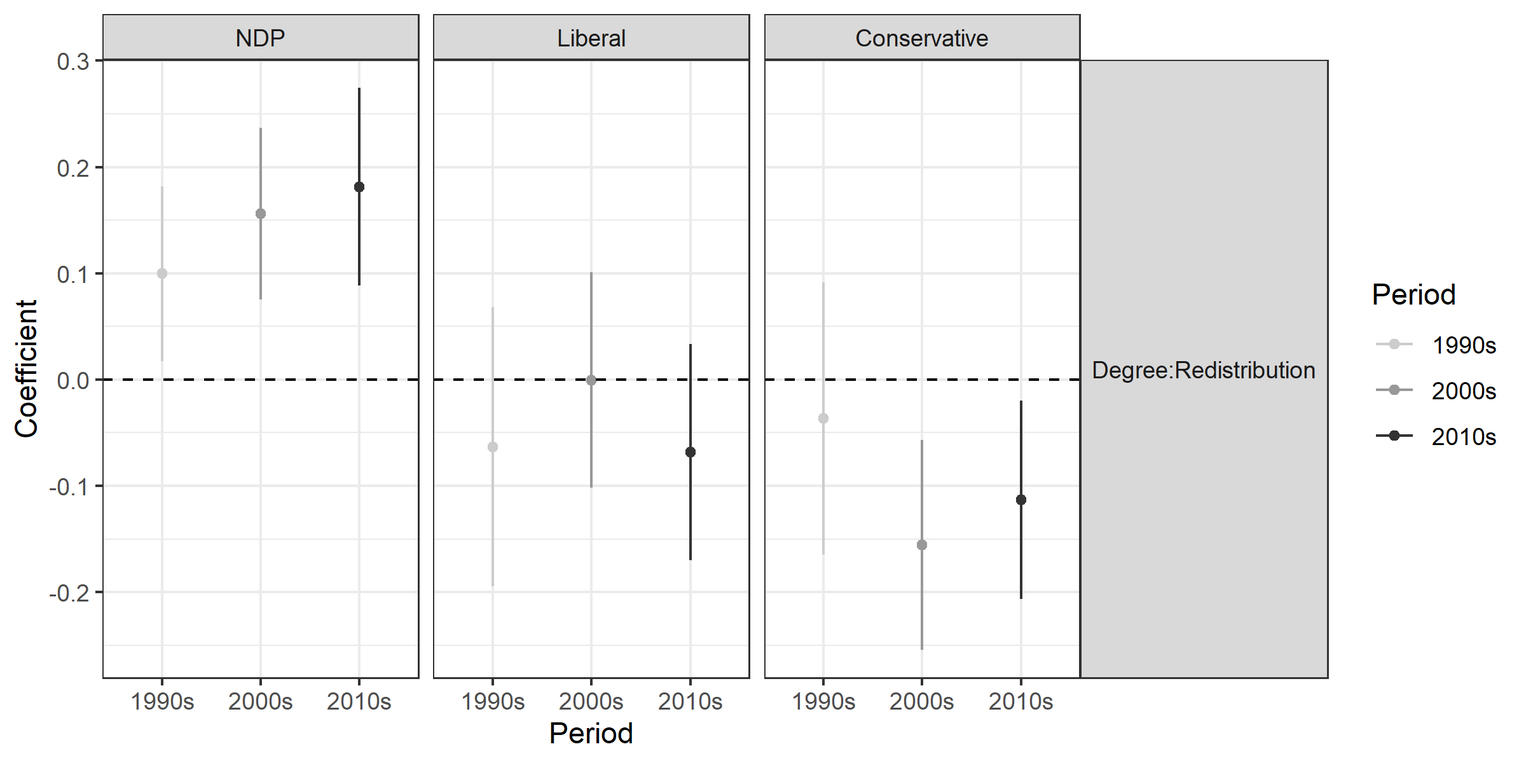
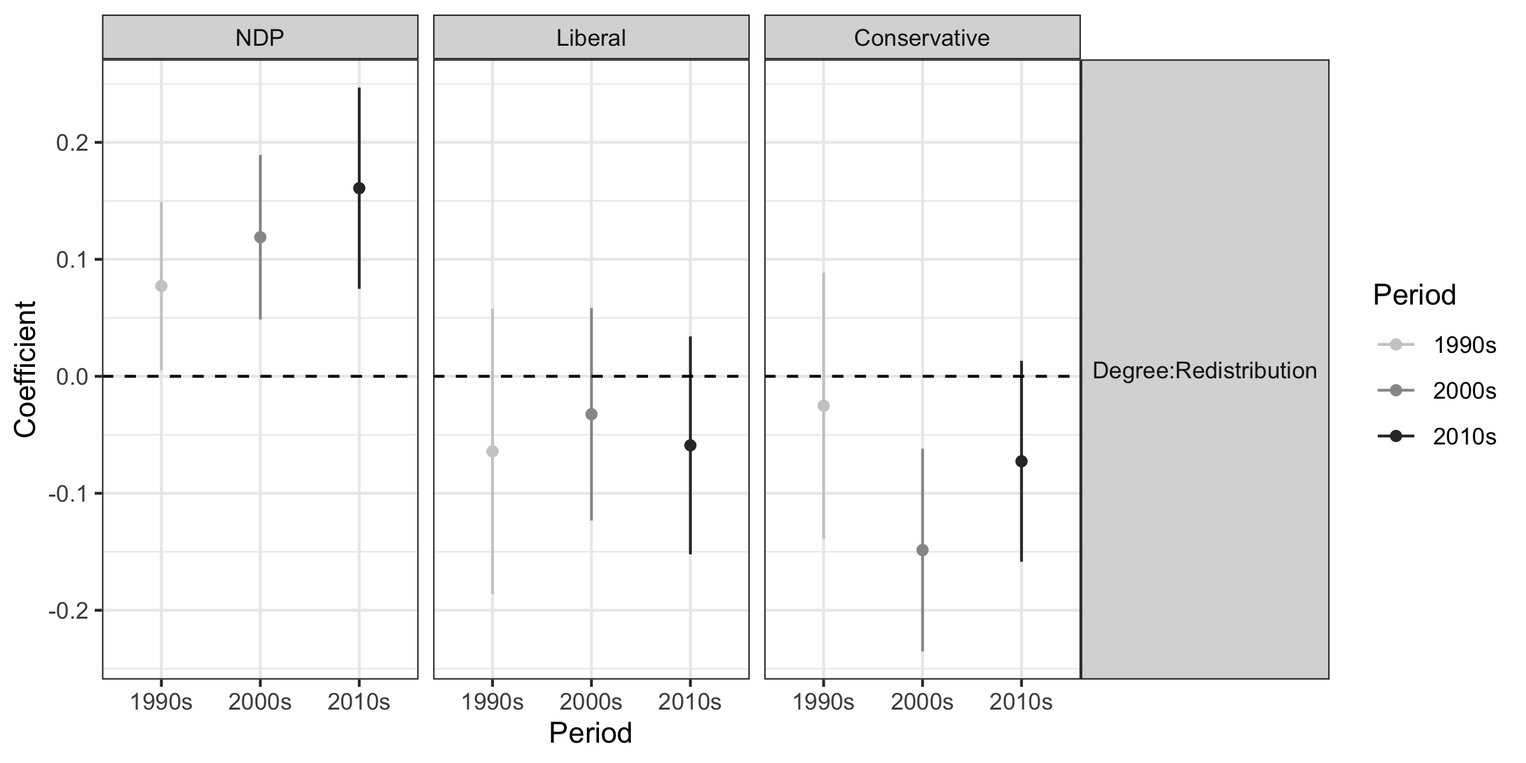
Upload the rest

diff --git a/Tables/test.html b/Tables/test.html
@@ -1,0 +1,87 @@
+
+<table style="text-align:center"><tr><td colspan="10" style="border-bottom: 1px solid black"></td></tr><tr><td style="text-align:left"></td><td colspan="9"><em>Dependent variable:</em></td></tr>
+<tr><td></td><td colspan="9" style="border-bottom: 1px solid black"></td></tr>
+<tr><td style="text-align:left"></td><td colspan="3">ndp</td><td colspan="3">liberal</td><td colspan="3">conservative</td></tr>
+<tr><td style="text-align:left"></td><td>(1)</td><td>(2)</td><td>(3)</td><td>(4)</td><td>(5)</td><td>(6)</td><td>(7)</td><td>(8)</td><td>(9)</td></tr>
+<tr><td colspan="10" style="border-bottom: 1px solid black"></td></tr><tr><td style="text-align:left">region2Atlantic</td><td>0.103<sup>***</sup></td><td>0.029</td><td>-0.186<sup>***</sup></td><td>-0.086<sup>**</sup></td><td>-0.055<sup>**</sup></td><td>0.119<sup>***</sup></td><td>-0.017</td><td>0.026</td><td>0.067<sup>***</sup></td></tr>
+<tr><td style="text-align:left"></td><td>(0.023)</td><td>(0.018)</td><td>(0.019)</td><td>(0.037)</td><td>(0.022)</td><td>(0.020)</td><td>(0.037)</td><td>(0.022)</td><td>(0.019)</td></tr>
+<tr><td style="text-align:left"></td><td></td><td></td><td></td><td></td><td></td><td></td><td></td><td></td><td></td></tr>
+<tr><td style="text-align:left">region2Ontario</td><td>0.057<sup>***</sup></td><td>0.028<sup>*</sup></td><td>-0.192<sup>***</sup></td><td>-0.039</td><td>-0.066<sup>***</sup></td><td>0.049<sup>***</sup></td><td>-0.018</td><td>0.039<sup>**</sup></td><td>0.143<sup>***</sup></td></tr>
+<tr><td style="text-align:left"></td><td>(0.020)</td><td>(0.015)</td><td>(0.017)</td><td>(0.032)</td><td>(0.019)</td><td>(0.018)</td><td>(0.031)</td><td>(0.018)</td><td>(0.017)</td></tr>
+<tr><td style="text-align:left"></td><td></td><td></td><td></td><td></td><td></td><td></td><td></td><td></td><td></td></tr>
+<tr><td style="text-align:left">region2West</td><td>0.105<sup>***</sup></td><td>0.096<sup>***</sup></td><td>-0.103<sup>***</sup></td><td>-0.249<sup>***</sup></td><td>-0.245<sup>***</sup></td><td>-0.124<sup>***</sup></td><td>0.144<sup>***</sup></td><td>0.149<sup>***</sup></td><td>0.227<sup>***</sup></td></tr>
+<tr><td style="text-align:left"></td><td>(0.019)</td><td>(0.015)</td><td>(0.017)</td><td>(0.031)</td><td>(0.019)</td><td>(0.018)</td><td>(0.030)</td><td>(0.019)</td><td>(0.017)</td></tr>
+<tr><td style="text-align:left"></td><td></td><td></td><td></td><td></td><td></td><td></td><td></td><td></td><td></td></tr>
+<tr><td style="text-align:left">age</td><td>0.001<sup>**</sup></td><td>-0.001<sup>***</sup></td><td>-0.002<sup>***</sup></td><td>0.001</td><td>0.003<sup>***</sup></td><td>0.003<sup>***</sup></td><td>-0.002<sup>***</sup></td><td>-0.002<sup>***</sup></td><td>-0.001<sup>*</sup></td></tr>
+<tr><td style="text-align:left"></td><td>(0.0004)</td><td>(0.0003)</td><td>(0.0004)</td><td>(0.001)</td><td>(0.0004)</td><td>(0.0004)</td><td>(0.001)</td><td>(0.0004)</td><td>(0.0004)</td></tr>
+<tr><td style="text-align:left"></td><td></td><td></td><td></td><td></td><td></td><td></td><td></td><td></td><td></td></tr>
+<tr><td style="text-align:left">male</td><td>-0.022<sup>*</sup></td><td>-0.007</td><td>0.016</td><td>-0.010</td><td>-0.021<sup>*</sup></td><td>-0.040<sup>***</sup></td><td>0.032</td><td>0.027<sup>**</sup></td><td>0.024<sup>**</sup></td></tr>
+<tr><td style="text-align:left"></td><td>(0.012)</td><td>(0.009)</td><td>(0.011)</td><td>(0.020)</td><td>(0.012)</td><td>(0.012)</td><td>(0.019)</td><td>(0.012)</td><td>(0.011)</td></tr>
+<tr><td style="text-align:left"></td><td></td><td></td><td></td><td></td><td></td><td></td><td></td><td></td><td></td></tr>
+<tr><td style="text-align:left">degree</td><td>-0.058<sup>*</sup></td><td>-0.123<sup>***</sup></td><td>-0.126<sup>***</sup></td><td>0.057</td><td>0.021</td><td>0.089<sup>**</sup></td><td>0.001</td><td>0.102<sup>**</sup></td><td>0.038</td></tr>
+<tr><td style="text-align:left"></td><td>(0.030)</td><td>(0.033)</td><td>(0.037)</td><td>(0.048)</td><td>(0.041)</td><td>(0.041)</td><td>(0.047)</td><td>(0.040)</td><td>(0.038)</td></tr>
+<tr><td style="text-align:left"></td><td></td><td></td><td></td><td></td><td></td><td></td><td></td><td></td><td></td></tr>
+<tr><td style="text-align:left">income</td><td>-0.006</td><td>-0.022<sup>***</sup></td><td>-0.027<sup>***</sup></td><td>-0.003</td><td>0.002</td><td>0.008<sup>*</sup></td><td>0.009</td><td>0.020<sup>***</sup></td><td>0.019<sup>***</sup></td></tr>
+<tr><td style="text-align:left"></td><td>(0.005)</td><td>(0.004)</td><td>(0.004)</td><td>(0.008)</td><td>(0.005)</td><td>(0.005)</td><td>(0.008)</td><td>(0.005)</td><td>(0.004)</td></tr>
+<tr><td style="text-align:left"></td><td></td><td></td><td></td><td></td><td></td><td></td><td></td><td></td><td></td></tr>
+<tr><td style="text-align:left">religion2Catholic</td><td>-0.041<sup>**</sup></td><td>-0.101<sup>***</sup></td><td>-0.066<sup>***</sup></td><td>0.092<sup>***</sup></td><td>0.078<sup>***</sup></td><td>0.013</td><td>-0.050</td><td>0.023</td><td>0.053<sup>***</sup></td></tr>
+<tr><td style="text-align:left"></td><td>(0.020)</td><td>(0.014)</td><td>(0.015)</td><td>(0.032)</td><td>(0.018)</td><td>(0.016)</td><td>(0.031)</td><td>(0.017)</td><td>(0.015)</td></tr>
+<tr><td style="text-align:left"></td><td></td><td></td><td></td><td></td><td></td><td></td><td></td><td></td><td></td></tr>
+<tr><td style="text-align:left">religion2Protestant</td><td>-0.029</td><td>-0.099<sup>***</sup></td><td>-0.070<sup>***</sup></td><td>-0.027</td><td>-0.046<sup>***</sup></td><td>-0.035<sup>**</sup></td><td>0.056<sup>*</sup></td><td>0.145<sup>***</sup></td><td>0.105<sup>***</sup></td></tr>
+<tr><td style="text-align:left"></td><td>(0.019)</td><td>(0.013)</td><td>(0.014)</td><td>(0.030)</td><td>(0.017)</td><td>(0.016)</td><td>(0.030)</td><td>(0.016)</td><td>(0.015)</td></tr>
+<tr><td style="text-align:left"></td><td></td><td></td><td></td><td></td><td></td><td></td><td></td><td></td><td></td></tr>
+<tr><td style="text-align:left">religion2Other</td><td>-0.001</td><td>-0.100<sup>***</sup></td><td>-0.063<sup>**</sup></td><td>0.040</td><td>0.138<sup>***</sup></td><td>0.054<sup>**</sup></td><td>-0.039</td><td>-0.038</td><td>0.009</td></tr>
+<tr><td style="text-align:left"></td><td>(0.031)</td><td>(0.023)</td><td>(0.025)</td><td>(0.049)</td><td>(0.029)</td><td>(0.027)</td><td>(0.048)</td><td>(0.028)</td><td>(0.025)</td></tr>
+<tr><td style="text-align:left"></td><td></td><td></td><td></td><td></td><td></td><td></td><td></td><td></td><td></td></tr>
+<tr><td style="text-align:left">redistribution</td><td>0.079<sup>***</sup></td><td>0.143<sup>***</sup></td><td>0.208<sup>***</sup></td><td>0.113<sup>***</sup></td><td>0.021</td><td>0.140<sup>***</sup></td><td>-0.191<sup>***</sup></td><td>-0.164<sup>***</sup></td><td>-0.349<sup>***</sup></td></tr>
+<tr><td style="text-align:left"></td><td>(0.023)</td><td>(0.025)</td><td>(0.031)</td><td>(0.036)</td><td>(0.031)</td><td>(0.034)</td><td>(0.035)</td><td>(0.030)</td><td>(0.031)</td></tr>
+<tr><td style="text-align:left"></td><td></td><td></td><td></td><td></td><td></td><td></td><td></td><td></td><td></td></tr>
+<tr><td style="text-align:left">market_liberalism</td><td>-0.171<sup>***</sup></td><td>-0.223<sup>***</sup></td><td>-0.254<sup>***</sup></td><td>-0.155<sup>***</sup></td><td>-0.063<sup>***</sup></td><td>-0.056<sup>**</sup></td><td>0.326<sup>***</sup></td><td>0.286<sup>***</sup></td><td>0.311<sup>***</sup></td></tr>
+<tr><td style="text-align:left"></td><td>(0.024)</td><td>(0.018)</td><td>(0.022)</td><td>(0.039)</td><td>(0.023)</td><td>(0.024)</td><td>(0.038)</td><td>(0.022)</td><td>(0.022)</td></tr>
+<tr><td style="text-align:left"></td><td></td><td></td><td></td><td></td><td></td><td></td><td></td><td></td><td></td></tr>
+<tr><td style="text-align:left">traditionalism2</td><td>-0.109<sup>***</sup></td><td>-0.191<sup>***</sup></td><td>-0.146<sup>***</sup></td><td>-0.018</td><td>-0.119<sup>***</sup></td><td>-0.171<sup>***</sup></td><td>0.126<sup>***</sup></td><td>0.310<sup>***</sup></td><td>0.317<sup>***</sup></td></tr>
+<tr><td style="text-align:left"></td><td>(0.022)</td><td>(0.016)</td><td>(0.022)</td><td>(0.034)</td><td>(0.019)</td><td>(0.024)</td><td>(0.034)</td><td>(0.019)</td><td>(0.023)</td></tr>
+<tr><td style="text-align:left"></td><td></td><td></td><td></td><td></td><td></td><td></td><td></td><td></td><td></td></tr>
+<tr><td style="text-align:left">immigration_rates</td><td>-0.030<sup>*</sup></td><td>-0.037<sup>**</sup></td><td>-0.024</td><td>-0.066<sup>**</sup></td><td>-0.053<sup>***</sup></td><td>-0.151<sup>***</sup></td><td>0.096<sup>***</sup></td><td>0.090<sup>***</sup></td><td>0.175<sup>***</sup></td></tr>
+<tr><td style="text-align:left"></td><td>(0.017)</td><td>(0.015)</td><td>(0.017)</td><td>(0.027)</td><td>(0.019)</td><td>(0.019)</td><td>(0.027)</td><td>(0.018)</td><td>(0.018)</td></tr>
+<tr><td style="text-align:left"></td><td></td><td></td><td></td><td></td><td></td><td></td><td></td><td></td><td></td></tr>
+<tr><td style="text-align:left">`1993`</td><td>-0.056<sup>***</sup></td><td></td><td></td><td>0.106<sup>***</sup></td><td></td><td></td><td>-0.051<sup>***</sup></td><td></td><td></td></tr>
+<tr><td style="text-align:left"></td><td>(0.012)</td><td></td><td></td><td>(0.020)</td><td></td><td></td><td>(0.019)</td><td></td><td></td></tr>
+<tr><td style="text-align:left"></td><td></td><td></td><td></td><td></td><td></td><td></td><td></td><td></td><td></td></tr>
+<tr><td style="text-align:left">`1997`</td><td></td><td></td><td></td><td></td><td></td><td></td><td></td><td></td><td></td></tr>
+<tr><td style="text-align:left"></td><td></td><td></td><td></td><td></td><td></td><td></td><td></td><td></td><td></td></tr>
+<tr><td style="text-align:left"></td><td></td><td></td><td></td><td></td><td></td><td></td><td></td><td></td><td></td></tr>
+<tr><td style="text-align:left">`2000`</td><td></td><td>-0.098<sup>***</sup></td><td></td><td></td><td>0.171<sup>***</sup></td><td></td><td></td><td>-0.073<sup>***</sup></td><td></td></tr>
+<tr><td style="text-align:left"></td><td></td><td>(0.014)</td><td></td><td></td><td>(0.018)</td><td></td><td></td><td>(0.018)</td><td></td></tr>
+<tr><td style="text-align:left"></td><td></td><td></td><td></td><td></td><td></td><td></td><td></td><td></td><td></td></tr>
+<tr><td style="text-align:left">`2004`</td><td></td><td>-0.031<sup>**</sup></td><td></td><td></td><td>0.128<sup>***</sup></td><td></td><td></td><td>-0.097<sup>***</sup></td><td></td></tr>
+<tr><td style="text-align:left"></td><td></td><td>(0.014)</td><td></td><td></td><td>(0.017)</td><td></td><td></td><td>(0.017)</td><td></td></tr>
+<tr><td style="text-align:left"></td><td></td><td></td><td></td><td></td><td></td><td></td><td></td><td></td><td></td></tr>
+<tr><td style="text-align:left">`2006`</td><td></td><td>-0.028<sup>**</sup></td><td></td><td></td><td>0.019</td><td></td><td></td><td>0.010</td><td></td></tr>
+<tr><td style="text-align:left"></td><td></td><td>(0.013)</td><td></td><td></td><td>(0.016)</td><td></td><td></td><td>(0.016)</td><td></td></tr>
+<tr><td style="text-align:left"></td><td></td><td></td><td></td><td></td><td></td><td></td><td></td><td></td><td></td></tr>
+<tr><td style="text-align:left">`2008`</td><td></td><td></td><td></td><td></td><td></td><td></td><td></td><td></td><td></td></tr>
+<tr><td style="text-align:left"></td><td></td><td></td><td></td><td></td><td></td><td></td><td></td><td></td><td></td></tr>
+<tr><td style="text-align:left"></td><td></td><td></td><td></td><td></td><td></td><td></td><td></td><td></td><td></td></tr>
+<tr><td style="text-align:left">`2011`</td><td></td><td></td><td>0.172<sup>***</sup></td><td></td><td></td><td>-0.156<sup>***</sup></td><td></td><td></td><td>-0.016</td></tr>
+<tr><td style="text-align:left"></td><td></td><td></td><td>(0.013)</td><td></td><td></td><td>(0.015)</td><td></td><td></td><td>(0.014)</td></tr>
+<tr><td style="text-align:left"></td><td></td><td></td><td></td><td></td><td></td><td></td><td></td><td></td><td></td></tr>
+<tr><td style="text-align:left">`2015`</td><td></td><td></td><td>0.041<sup>***</sup></td><td></td><td></td><td>0.042<sup>***</sup></td><td></td><td></td><td>-0.084<sup>***</sup></td></tr>
+<tr><td style="text-align:left"></td><td></td><td></td><td>(0.014)</td><td></td><td></td><td>(0.015)</td><td></td><td></td><td>(0.014)</td></tr>
+<tr><td style="text-align:left"></td><td></td><td></td><td></td><td></td><td></td><td></td><td></td><td></td><td></td></tr>
+<tr><td style="text-align:left">`2019`</td><td></td><td></td><td></td><td></td><td></td><td></td><td></td><td></td><td></td></tr>
+<tr><td style="text-align:left"></td><td></td><td></td><td></td><td></td><td></td><td></td><td></td><td></td><td></td></tr>
+<tr><td style="text-align:left"></td><td></td><td></td><td></td><td></td><td></td><td></td><td></td><td></td><td></td></tr>
+<tr><td style="text-align:left">degree:redistribution</td><td>0.097<sup>**</sup></td><td>0.151<sup>***</sup></td><td>0.174<sup>***</sup></td><td>-0.058</td><td>0.006</td><td>-0.059</td><td>-0.039</td><td>-0.157<sup>***</sup></td><td>-0.115<sup>**</sup></td></tr>
+<tr><td style="text-align:left"></td><td>(0.042)</td><td>(0.041)</td><td>(0.047)</td><td>(0.067)</td><td>(0.051)</td><td>(0.051)</td><td>(0.065)</td><td>(0.050)</td><td>(0.047)</td></tr>
+<tr><td style="text-align:left"></td><td></td><td></td><td></td><td></td><td></td><td></td><td></td><td></td><td></td></tr>
+<tr><td style="text-align:left">Constant</td><td>0.190<sup>***</sup></td><td>0.498<sup>***</sup></td><td>0.577<sup>***</sup></td><td>0.529<sup>***</sup></td><td>0.365<sup>***</sup></td><td>0.275<sup>***</sup></td><td>0.281<sup>***</sup></td><td>0.138<sup>***</sup></td><td>0.148<sup>***</sup></td></tr>
+<tr><td style="text-align:left"></td><td>(0.043)</td><td>(0.037)</td><td>(0.042)</td><td>(0.068)</td><td>(0.047)</td><td>(0.046)</td><td>(0.067)</td><td>(0.046)</td><td>(0.043)</td></tr>
+<tr><td style="text-align:left"></td><td></td><td></td><td></td><td></td><td></td><td></td><td></td><td></td><td></td></tr>
+<tr><td colspan="10" style="border-bottom: 1px solid black"></td></tr><tr><td style="text-align:left">Observations</td><td>2,500</td><td>6,502</td><td>5,972</td><td>2,500</td><td>6,502</td><td>5,972</td><td>2,500</td><td>6,502</td><td>5,972</td></tr>
+<tr><td style="text-align:left">R<sup>2</sup></td><td>0.093</td><td>0.138</td><td>0.160</td><td>0.101</td><td>0.103</td><td>0.142</td><td>0.134</td><td>0.170</td><td>0.278</td></tr>
+<tr><td style="text-align:left">Adjusted R<sup>2</sup></td><td>0.087</td><td>0.136</td><td>0.158</td><td>0.095</td><td>0.100</td><td>0.139</td><td>0.128</td><td>0.168</td><td>0.276</td></tr>
+<tr><td style="text-align:left">Residual Std. Error</td><td>0.298 (df = 2483)</td><td>0.369 (df = 6483)</td><td>0.407 (df = 5954)</td><td>0.473 (df = 2483)</td><td>0.460 (df = 6483)</td><td>0.444 (df = 5954)</td><td>0.464 (df = 2483)</td><td>0.451 (df = 6483)</td><td>0.412 (df = 5954)</td></tr>
+<tr><td style="text-align:left">F Statistic</td><td>15.917<sup>***</sup> (df = 16; 2483)</td><td>57.704<sup>***</sup> (df = 18; 6483)</td><td>66.701<sup>***</sup> (df = 17; 5954)</td><td>17.401<sup>***</sup> (df = 16; 2483)</td><td>41.297<sup>***</sup> (df = 18; 6483)</td><td>57.869<sup>***</sup> (df = 17; 5954)</td><td>23.932<sup>***</sup> (df = 16; 2483)</td><td>73.876<sup>***</sup> (df = 18; 6483)</td><td>134.692<sup>***</sup> (df = 17; 5954)</td></tr>
+<tr><td colspan="10" style="border-bottom: 1px solid black"></td></tr><tr><td style="text-align:left"><em>Note:</em></td><td colspan="9" style="text-align:right"><sup>*</sup>p<0.1; <sup>**</sup>p<0.05; <sup>***</sup>p<0.01</td></tr>
+</table>

diff --git a/Tables/interaction_models.html b/Tables/interaction_models.html
@@ -1,0 +1,60 @@
+
+<table style="text-align:center"><tr><td colspan="10" style="border-bottom: 1px solid black"></td></tr><tr><td style="text-align:left"></td><td colspan="9"><em>Dependent variable:</em></td></tr>
+<tr><td></td><td colspan="9" style="border-bottom: 1px solid black"></td></tr>
+<tr><td style="text-align:left"></td><td colspan="3">ndp</td><td colspan="3">liberal</td><td colspan="3">conservative</td></tr>
+<tr><td style="text-align:left"></td><td>(1)</td><td>(2)</td><td>(3)</td><td>(4)</td><td>(5)</td><td>(6)</td><td>(7)</td><td>(8)</td><td>(9)</td></tr>
+<tr><td colspan="10" style="border-bottom: 1px solid black"></td></tr><tr><td style="text-align:left">Region (Atlantic)</td><td>0.103<sup>***</sup></td><td>0.029</td><td>-0.186<sup>***</sup></td><td>-0.086<sup>**</sup></td><td>-0.055<sup>**</sup></td><td>0.119<sup>***</sup></td><td>-0.017</td><td>0.026</td><td>0.067<sup>***</sup></td></tr>
+<tr><td style="text-align:left"></td><td>(0.023)</td><td>(0.018)</td><td>(0.019)</td><td>(0.037)</td><td>(0.022)</td><td>(0.020)</td><td>(0.037)</td><td>(0.022)</td><td>(0.019)</td></tr>
+<tr><td style="text-align:left"></td><td></td><td></td><td></td><td></td><td></td><td></td><td></td><td></td><td></td></tr>
+<tr><td style="text-align:left">Region (Ontario)</td><td>0.057<sup>***</sup></td><td>0.028<sup>*</sup></td><td>-0.192<sup>***</sup></td><td>-0.039</td><td>-0.066<sup>***</sup></td><td>0.049<sup>***</sup></td><td>-0.018</td><td>0.039<sup>**</sup></td><td>0.143<sup>***</sup></td></tr>
+<tr><td style="text-align:left"></td><td>(0.020)</td><td>(0.015)</td><td>(0.017)</td><td>(0.032)</td><td>(0.019)</td><td>(0.018)</td><td>(0.031)</td><td>(0.018)</td><td>(0.017)</td></tr>
+<tr><td style="text-align:left"></td><td></td><td></td><td></td><td></td><td></td><td></td><td></td><td></td><td></td></tr>
+<tr><td style="text-align:left">Region (West)</td><td>0.105<sup>***</sup></td><td>0.096<sup>***</sup></td><td>-0.103<sup>***</sup></td><td>-0.249<sup>***</sup></td><td>-0.245<sup>***</sup></td><td>-0.124<sup>***</sup></td><td>0.144<sup>***</sup></td><td>0.149<sup>***</sup></td><td>0.227<sup>***</sup></td></tr>
+<tr><td style="text-align:left"></td><td>(0.019)</td><td>(0.015)</td><td>(0.017)</td><td>(0.031)</td><td>(0.019)</td><td>(0.018)</td><td>(0.030)</td><td>(0.019)</td><td>(0.017)</td></tr>
+<tr><td style="text-align:left"></td><td></td><td></td><td></td><td></td><td></td><td></td><td></td><td></td><td></td></tr>
+<tr><td style="text-align:left">Age</td><td>0.001<sup>**</sup></td><td>-0.001<sup>***</sup></td><td>-0.002<sup>***</sup></td><td>0.001</td><td>0.003<sup>***</sup></td><td>0.003<sup>***</sup></td><td>-0.002<sup>***</sup></td><td>-0.002<sup>***</sup></td><td>-0.001<sup>*</sup></td></tr>
+<tr><td style="text-align:left"></td><td>(0.0004)</td><td>(0.0003)</td><td>(0.0004)</td><td>(0.001)</td><td>(0.0004)</td><td>(0.0004)</td><td>(0.001)</td><td>(0.0004)</td><td>(0.0004)</td></tr>
+<tr><td style="text-align:left"></td><td></td><td></td><td></td><td></td><td></td><td></td><td></td><td></td><td></td></tr>
+<tr><td style="text-align:left">Sex (Male)</td><td>-0.022<sup>*</sup></td><td>-0.007</td><td>0.016</td><td>-0.010</td><td>-0.021<sup>*</sup></td><td>-0.040<sup>***</sup></td><td>0.032</td><td>0.027<sup>**</sup></td><td>0.024<sup>**</sup></td></tr>
+<tr><td style="text-align:left"></td><td>(0.012)</td><td>(0.009)</td><td>(0.011)</td><td>(0.020)</td><td>(0.012)</td><td>(0.012)</td><td>(0.019)</td><td>(0.012)</td><td>(0.011)</td></tr>
+<tr><td style="text-align:left"></td><td></td><td></td><td></td><td></td><td></td><td></td><td></td><td></td><td></td></tr>
+<tr><td style="text-align:left">Education (Degree)</td><td>-0.058<sup>*</sup></td><td>-0.123<sup>***</sup></td><td>-0.126<sup>***</sup></td><td>0.057</td><td>0.021</td><td>0.089<sup>**</sup></td><td>0.001</td><td>0.102<sup>**</sup></td><td>0.038</td></tr>
+<tr><td style="text-align:left"></td><td>(0.030)</td><td>(0.033)</td><td>(0.037)</td><td>(0.048)</td><td>(0.041)</td><td>(0.041)</td><td>(0.047)</td><td>(0.040)</td><td>(0.038)</td></tr>
+<tr><td style="text-align:left"></td><td></td><td></td><td></td><td></td><td></td><td></td><td></td><td></td><td></td></tr>
+<tr><td style="text-align:left">Income (Quintiles)</td><td>-0.006</td><td>-0.022<sup>***</sup></td><td>-0.027<sup>***</sup></td><td>-0.003</td><td>0.002</td><td>0.008<sup>*</sup></td><td>0.009</td><td>0.020<sup>***</sup></td><td>0.019<sup>***</sup></td></tr>
+<tr><td style="text-align:left"></td><td>(0.005)</td><td>(0.004)</td><td>(0.004)</td><td>(0.008)</td><td>(0.005)</td><td>(0.005)</td><td>(0.008)</td><td>(0.005)</td><td>(0.004)</td></tr>
+<tr><td style="text-align:left"></td><td></td><td></td><td></td><td></td><td></td><td></td><td></td><td></td><td></td></tr>
+<tr><td style="text-align:left">Religion (Catholic)</td><td>-0.041<sup>**</sup></td><td>-0.101<sup>***</sup></td><td>-0.066<sup>***</sup></td><td>0.092<sup>***</sup></td><td>0.078<sup>***</sup></td><td>0.013</td><td>-0.050</td><td>0.023</td><td>0.053<sup>***</sup></td></tr>
+<tr><td style="text-align:left"></td><td>(0.020)</td><td>(0.014)</td><td>(0.015)</td><td>(0.032)</td><td>(0.018)</td><td>(0.016)</td><td>(0.031)</td><td>(0.017)</td><td>(0.015)</td></tr>
+<tr><td style="text-align:left"></td><td></td><td></td><td></td><td></td><td></td><td></td><td></td><td></td><td></td></tr>
+<tr><td style="text-align:left">Religion (Protestant)</td><td>-0.029</td><td>-0.099<sup>***</sup></td><td>-0.070<sup>***</sup></td><td>-0.027</td><td>-0.046<sup>***</sup></td><td>-0.035<sup>**</sup></td><td>0.056<sup>*</sup></td><td>0.145<sup>***</sup></td><td>0.105<sup>***</sup></td></tr>
+<tr><td style="text-align:left"></td><td>(0.019)</td><td>(0.013)</td><td>(0.014)</td><td>(0.030)</td><td>(0.017)</td><td>(0.016)</td><td>(0.030)</td><td>(0.016)</td><td>(0.015)</td></tr>
+<tr><td style="text-align:left"></td><td></td><td></td><td></td><td></td><td></td><td></td><td></td><td></td><td></td></tr>
+<tr><td style="text-align:left">Religion (Other)</td><td>-0.001</td><td>-0.100<sup>***</sup></td><td>-0.063<sup>**</sup></td><td>0.040</td><td>0.138<sup>***</sup></td><td>0.054<sup>**</sup></td><td>-0.039</td><td>-0.038</td><td>0.009</td></tr>
+<tr><td style="text-align:left"></td><td>(0.031)</td><td>(0.023)</td><td>(0.025)</td><td>(0.049)</td><td>(0.029)</td><td>(0.027)</td><td>(0.048)</td><td>(0.028)</td><td>(0.025)</td></tr>
+<tr><td style="text-align:left"></td><td></td><td></td><td></td><td></td><td></td><td></td><td></td><td></td><td></td></tr>
+<tr><td style="text-align:left">Redistribution</td><td>0.079<sup>***</sup></td><td>0.143<sup>***</sup></td><td>0.208<sup>***</sup></td><td>0.113<sup>***</sup></td><td>0.021</td><td>0.140<sup>***</sup></td><td>-0.191<sup>***</sup></td><td>-0.164<sup>***</sup></td><td>-0.349<sup>***</sup></td></tr>
+<tr><td style="text-align:left"></td><td>(0.023)</td><td>(0.025)</td><td>(0.031)</td><td>(0.036)</td><td>(0.031)</td><td>(0.034)</td><td>(0.035)</td><td>(0.030)</td><td>(0.031)</td></tr>
+<tr><td style="text-align:left"></td><td></td><td></td><td></td><td></td><td></td><td></td><td></td><td></td><td></td></tr>
+<tr><td style="text-align:left">Market Liberalism</td><td>-0.171<sup>***</sup></td><td>-0.223<sup>***</sup></td><td>-0.254<sup>***</sup></td><td>-0.155<sup>***</sup></td><td>-0.063<sup>***</sup></td><td>-0.056<sup>**</sup></td><td>0.326<sup>***</sup></td><td>0.286<sup>***</sup></td><td>0.311<sup>***</sup></td></tr>
+<tr><td style="text-align:left"></td><td>(0.024)</td><td>(0.018)</td><td>(0.022)</td><td>(0.039)</td><td>(0.023)</td><td>(0.024)</td><td>(0.038)</td><td>(0.022)</td><td>(0.022)</td></tr>
+<tr><td style="text-align:left"></td><td></td><td></td><td></td><td></td><td></td><td></td><td></td><td></td><td></td></tr>
+<tr><td style="text-align:left">Traditionalism</td><td>-0.109<sup>***</sup></td><td>-0.191<sup>***</sup></td><td>-0.146<sup>***</sup></td><td>-0.018</td><td>-0.119<sup>***</sup></td><td>-0.171<sup>***</sup></td><td>0.126<sup>***</sup></td><td>0.310<sup>***</sup></td><td>0.317<sup>***</sup></td></tr>
+<tr><td style="text-align:left"></td><td>(0.022)</td><td>(0.016)</td><td>(0.022)</td><td>(0.034)</td><td>(0.019)</td><td>(0.024)</td><td>(0.034)</td><td>(0.019)</td><td>(0.023)</td></tr>
+<tr><td style="text-align:left"></td><td></td><td></td><td></td><td></td><td></td><td></td><td></td><td></td><td></td></tr>
+<tr><td style="text-align:left">Immigration Rates</td><td>-0.030<sup>*</sup></td><td>-0.037<sup>**</sup></td><td>-0.024</td><td>-0.066<sup>**</sup></td><td>-0.053<sup>***</sup></td><td>-0.151<sup>***</sup></td><td>0.096<sup>***</sup></td><td>0.090<sup>***</sup></td><td>0.175<sup>***</sup></td></tr>
+<tr><td style="text-align:left"></td><td>(0.017)</td><td>(0.015)</td><td>(0.017)</td><td>(0.027)</td><td>(0.019)</td><td>(0.019)</td><td>(0.027)</td><td>(0.018)</td><td>(0.018)</td></tr>
+<tr><td style="text-align:left"></td><td></td><td></td><td></td><td></td><td></td><td></td><td></td><td></td><td></td></tr>
+<tr><td style="text-align:left">degree:redistribution</td><td>0.097<sup>**</sup></td><td>0.151<sup>***</sup></td><td>0.174<sup>***</sup></td><td>-0.058</td><td>0.006</td><td>-0.059</td><td>-0.039</td><td>-0.157<sup>***</sup></td><td>-0.115<sup>**</sup></td></tr>
+<tr><td style="text-align:left"></td><td>(0.042)</td><td>(0.041)</td><td>(0.047)</td><td>(0.067)</td><td>(0.051)</td><td>(0.051)</td><td>(0.065)</td><td>(0.050)</td><td>(0.047)</td></tr>
+<tr><td style="text-align:left"></td><td></td><td></td><td></td><td></td><td></td><td></td><td></td><td></td><td></td></tr>
+<tr><td style="text-align:left">Constant</td><td>0.190<sup>***</sup></td><td>0.498<sup>***</sup></td><td>0.577<sup>***</sup></td><td>0.529<sup>***</sup></td><td>0.365<sup>***</sup></td><td>0.275<sup>***</sup></td><td>0.281<sup>***</sup></td><td>0.138<sup>***</sup></td><td>0.148<sup>***</sup></td></tr>
+<tr><td style="text-align:left"></td><td>(0.043)</td><td>(0.037)</td><td>(0.042)</td><td>(0.068)</td><td>(0.047)</td><td>(0.046)</td><td>(0.067)</td><td>(0.046)</td><td>(0.043)</td></tr>
+<tr><td style="text-align:left"></td><td></td><td></td><td></td><td></td><td></td><td></td><td></td><td></td><td></td></tr>
+<tr><td colspan="10" style="border-bottom: 1px solid black"></td></tr><tr><td style="text-align:left">Observations</td><td>2,500</td><td>6,502</td><td>5,972</td><td>2,500</td><td>6,502</td><td>5,972</td><td>2,500</td><td>6,502</td><td>5,972</td></tr>
+<tr><td style="text-align:left">R<sup>2</sup></td><td>0.093</td><td>0.138</td><td>0.160</td><td>0.101</td><td>0.103</td><td>0.142</td><td>0.134</td><td>0.170</td><td>0.278</td></tr>
+<tr><td style="text-align:left">Adjusted R<sup>2</sup></td><td>0.087</td><td>0.136</td><td>0.158</td><td>0.095</td><td>0.100</td><td>0.139</td><td>0.128</td><td>0.168</td><td>0.276</td></tr>
+<tr><td style="text-align:left">Residual Std. Error</td><td>0.298 (df = 2483)</td><td>0.369 (df = 6483)</td><td>0.407 (df = 5954)</td><td>0.473 (df = 2483)</td><td>0.460 (df = 6483)</td><td>0.444 (df = 5954)</td><td>0.464 (df = 2483)</td><td>0.451 (df = 6483)</td><td>0.412 (df = 5954)</td></tr>
+<tr><td style="text-align:left">F Statistic</td><td>15.917<sup>***</sup> (df = 16; 2483)</td><td>57.704<sup>***</sup> (df = 18; 6483)</td><td>66.701<sup>***</sup> (df = 17; 5954)</td><td>17.401<sup>***</sup> (df = 16; 2483)</td><td>41.297<sup>***</sup> (df = 18; 6483)</td><td>57.869<sup>***</sup> (df = 17; 5954)</td><td>23.932<sup>***</sup> (df = 16; 2483)</td><td>73.876<sup>***</sup> (df = 18; 6483)</td><td>134.692<sup>***</sup> (df = 17; 5954)</td></tr>
+<tr><td colspan="10" style="border-bottom: 1px solid black"></td></tr><tr><td style="text-align:left"><em>Note:</em></td><td colspan="9" style="text-align:right"><sup>*</sup>p<0.1; <sup>**</sup>p<0.05; <sup>***</sup>p<0.01</td></tr>
+</table>

diff --git a/Tables/ols_models.html b/Tables/ols_models.html
@@ -1,0 +1,58 @@
+
+<table style="text-align:center"><tr><td colspan="10" style="border-bottom: 1px solid black"></td></tr><tr><td style="text-align:left"></td><td colspan="9"><em>Dependent variable:</em></td></tr>
+<tr><td></td><td colspan="9" style="border-bottom: 1px solid black"></td></tr>
+<tr><td style="text-align:left"></td><td colspan="3">NDP</td><td colspan="3">Liberal</td><td colspan="3">Conservative</td></tr>
+<tr><td style="text-align:left"></td><td>1990s</td><td>2000s</td><td>2010s</td><td>1990s</td><td>2000s</td><td>2010s</td><td>1990s</td><td>2000s</td><td>2010s</td></tr>
+<tr><td style="text-align:left"></td><td>(1)</td><td>(2)</td><td>(3)</td><td>(4)</td><td>(5)</td><td>(6)</td><td>(7)</td><td>(8)</td><td>(9)</td></tr>
+<tr><td colspan="10" style="border-bottom: 1px solid black"></td></tr><tr><td style="text-align:left">Region (Quebec)</td><td>-0.13<sup>***</sup></td><td>-0.11<sup>***</sup></td><td>0.09<sup>***</sup></td><td>-0.23<sup>***</sup></td><td>-0.19<sup>***</sup></td><td>-0.18<sup>***</sup></td><td>-0.11<sup>***</sup></td><td>-0.14<sup>***</sup></td><td>-0.10<sup>***</sup></td></tr>
+<tr><td style="text-align:left"></td><td>(0.02)</td><td>(0.01)</td><td>(0.02)</td><td>(0.03)</td><td>(0.02)</td><td>(0.02)</td><td>(0.03)</td><td>(0.02)</td><td>(0.02)</td></tr>
+<tr><td style="text-align:left"></td><td></td><td></td><td></td><td></td><td></td><td></td><td></td><td></td><td></td></tr>
+<tr><td style="text-align:left">Region (Ontario)</td><td>-0.05<sup>**</sup></td><td>-0.003</td><td>-0.003</td><td>0.03</td><td>-0.02</td><td>-0.06<sup>***</sup></td><td>-0.003</td><td>0.01</td><td>0.07<sup>***</sup></td></tr>
+<tr><td style="text-align:left"></td><td>(0.02)</td><td>(0.01)</td><td>(0.02)</td><td>(0.03)</td><td>(0.02)</td><td>(0.02)</td><td>(0.03)</td><td>(0.02)</td><td>(0.02)</td></tr>
+<tr><td style="text-align:left"></td><td></td><td></td><td></td><td></td><td></td><td></td><td></td><td></td><td></td></tr>
+<tr><td style="text-align:left">Region (West)</td><td>0.001</td><td>0.06<sup>***</sup></td><td>0.08<sup>***</sup></td><td>-0.18<sup>***</sup></td><td>-0.20<sup>***</sup></td><td>-0.22<sup>***</sup></td><td>0.16<sup>***</sup></td><td>0.11<sup>***</sup></td><td>0.15<sup>***</sup></td></tr>
+<tr><td style="text-align:left"></td><td>(0.02)</td><td>(0.01)</td><td>(0.02)</td><td>(0.03)</td><td>(0.02)</td><td>(0.02)</td><td>(0.03)</td><td>(0.02)</td><td>(0.02)</td></tr>
+<tr><td style="text-align:left"></td><td></td><td></td><td></td><td></td><td></td><td></td><td></td><td></td><td></td></tr>
+<tr><td style="text-align:left">Age</td><td>0.001<sup>***</sup></td><td>-0.0005<sup>*</sup></td><td>-0.002<sup>***</sup></td><td>0.001<sup>**</sup></td><td>0.003<sup>***</sup></td><td>0.002<sup>***</sup></td><td>-0.001<sup>**</sup></td><td>-0.001<sup>***</sup></td><td>-0.001<sup>*</sup></td></tr>
+<tr><td style="text-align:left"></td><td>(0.0004)</td><td>(0.0003)</td><td>(0.0003)</td><td>(0.001)</td><td>(0.0003)</td><td>(0.0004)</td><td>(0.001)</td><td>(0.0003)</td><td>(0.0003)</td></tr>
+<tr><td style="text-align:left"></td><td></td><td></td><td></td><td></td><td></td><td></td><td></td><td></td><td></td></tr>
+<tr><td style="text-align:left">Sex (Male)</td><td>-0.02<sup>*</sup></td><td>-0.01</td><td>0.01</td><td>-0.02</td><td>-0.02<sup>*</sup></td><td>-0.04<sup>***</sup></td><td>0.03</td><td>0.02<sup>**</sup></td><td>0.02<sup>*</sup></td></tr>
+<tr><td style="text-align:left"></td><td>(0.01)</td><td>(0.01)</td><td>(0.01)</td><td>(0.02)</td><td>(0.01)</td><td>(0.01)</td><td>(0.02)</td><td>(0.01)</td><td>(0.01)</td></tr>
+<tr><td style="text-align:left"></td><td></td><td></td><td></td><td></td><td></td><td></td><td></td><td></td><td></td></tr>
+<tr><td style="text-align:left">Education (Degree)</td><td>0.001</td><td>-0.01</td><td>0.001</td><td>0.03</td><td>0.02<sup>*</sup></td><td>0.04<sup>***</sup></td><td>-0.02</td><td>-0.01</td><td>-0.04<sup>***</sup></td></tr>
+<tr><td style="text-align:left"></td><td>(0.01)</td><td>(0.01)</td><td>(0.01)</td><td>(0.02)</td><td>(0.01)</td><td>(0.01)</td><td>(0.02)</td><td>(0.01)</td><td>(0.01)</td></tr>
+<tr><td style="text-align:left"></td><td></td><td></td><td></td><td></td><td></td><td></td><td></td><td></td><td></td></tr>
+<tr><td style="text-align:left">Income (Quintiles)</td><td>-0.005</td><td>-0.02<sup>***</sup></td><td>-0.02<sup>***</sup></td><td>-0.01</td><td>0.001</td><td>0.01<sup>**</sup></td><td>0.01</td><td>0.02<sup>***</sup></td><td>0.02<sup>***</sup></td></tr>
+<tr><td style="text-align:left"></td><td>(0.004)</td><td>(0.003)</td><td>(0.004)</td><td>(0.01)</td><td>(0.004)</td><td>(0.004)</td><td>(0.01)</td><td>(0.004)</td><td>(0.004)</td></tr>
+<tr><td style="text-align:left"></td><td></td><td></td><td></td><td></td><td></td><td></td><td></td><td></td><td></td></tr>
+<tr><td style="text-align:left">Religion (Catholic)</td><td>-0.04<sup>**</sup></td><td>-0.08<sup>***</sup></td><td>-0.03<sup>**</sup></td><td>0.06<sup>**</sup></td><td>0.06<sup>***</sup></td><td>0.04<sup>***</sup></td><td>-0.06<sup>**</sup></td><td>0.02</td><td>0.06<sup>***</sup></td></tr>
+<tr><td style="text-align:left"></td><td>(0.02)</td><td>(0.01)</td><td>(0.01)</td><td>(0.03)</td><td>(0.02)</td><td>(0.01)</td><td>(0.03)</td><td>(0.01)</td><td>(0.01)</td></tr>
+<tr><td style="text-align:left"></td><td></td><td></td><td></td><td></td><td></td><td></td><td></td><td></td><td></td></tr>
+<tr><td style="text-align:left">Religion (Protestant)</td><td>-0.02</td><td>-0.08<sup>***</sup></td><td>-0.04<sup>***</sup></td><td>-0.03</td><td>-0.04<sup>***</sup></td><td>-0.01</td><td>0.06<sup>**</sup></td><td>0.15<sup>***</sup></td><td>0.11<sup>***</sup></td></tr>
+<tr><td style="text-align:left"></td><td>(0.02)</td><td>(0.01)</td><td>(0.01)</td><td>(0.03)</td><td>(0.02)</td><td>(0.01)</td><td>(0.03)</td><td>(0.01)</td><td>(0.01)</td></tr>
+<tr><td style="text-align:left"></td><td></td><td></td><td></td><td></td><td></td><td></td><td></td><td></td><td></td></tr>
+<tr><td style="text-align:left">Religion (Other)</td><td>0.004</td><td>-0.08<sup>***</sup></td><td>-0.02</td><td>0.08<sup>*</sup></td><td>0.15<sup>***</sup></td><td>0.09<sup>***</sup></td><td>-0.02</td><td>-0.02</td><td>0.03</td></tr>
+<tr><td style="text-align:left"></td><td>(0.03)</td><td>(0.02)</td><td>(0.02)</td><td>(0.05)</td><td>(0.03)</td><td>(0.03)</td><td>(0.04)</td><td>(0.03)</td><td>(0.02)</td></tr>
+<tr><td style="text-align:left"></td><td></td><td></td><td></td><td></td><td></td><td></td><td></td><td></td><td></td></tr>
+<tr><td style="text-align:left">Redistribution</td><td>0.10<sup>***</sup></td><td>0.16<sup>***</sup></td><td>0.24<sup>***</sup></td><td>0.05</td><td>-0.03</td><td>0.08<sup>***</sup></td><td>-0.21<sup>***</sup></td><td>-0.23<sup>***</sup></td><td>-0.39<sup>***</sup></td></tr>
+<tr><td style="text-align:left"></td><td>(0.02)</td><td>(0.02)</td><td>(0.02)</td><td>(0.03)</td><td>(0.02)</td><td>(0.03)</td><td>(0.03)</td><td>(0.02)</td><td>(0.02)</td></tr>
+<tr><td style="text-align:left"></td><td></td><td></td><td></td><td></td><td></td><td></td><td></td><td></td><td></td></tr>
+<tr><td style="text-align:left">Market Liberalism</td><td>-0.15<sup>***</sup></td><td>-0.18<sup>***</sup></td><td>-0.22<sup>***</sup></td><td>-0.12<sup>***</sup></td><td>-0.04<sup>**</sup></td><td>-0.03</td><td>0.30<sup>***</sup></td><td>0.25<sup>***</sup></td><td>0.30<sup>***</sup></td></tr>
+<tr><td style="text-align:left"></td><td>(0.02)</td><td>(0.02)</td><td>(0.02)</td><td>(0.04)</td><td>(0.02)</td><td>(0.02)</td><td>(0.03)</td><td>(0.02)</td><td>(0.02)</td></tr>
+<tr><td style="text-align:left"></td><td></td><td></td><td></td><td></td><td></td><td></td><td></td><td></td><td></td></tr>
+<tr><td style="text-align:left">Traditionalism</td><td>-0.10<sup>***</sup></td><td>-0.15<sup>***</sup></td><td>-0.12<sup>***</sup></td><td>0.01</td><td>-0.06<sup>***</sup></td><td>-0.15<sup>***</sup></td><td>0.13<sup>***</sup></td><td>0.30<sup>***</sup></td><td>0.31<sup>***</sup></td></tr>
+<tr><td style="text-align:left"></td><td>(0.02)</td><td>(0.01)</td><td>(0.02)</td><td>(0.03)</td><td>(0.02)</td><td>(0.02)</td><td>(0.03)</td><td>(0.02)</td><td>(0.02)</td></tr>
+<tr><td style="text-align:left"></td><td></td><td></td><td></td><td></td><td></td><td></td><td></td><td></td><td></td></tr>
+<tr><td style="text-align:left">Immigration Rates</td><td>-0.03<sup>*</sup></td><td>-0.03<sup>**</sup></td><td>-0.03</td><td>-0.07<sup>***</sup></td><td>-0.05<sup>***</sup></td><td>-0.13<sup>***</sup></td><td>0.07<sup>***</sup></td><td>0.07<sup>***</sup></td><td>0.15<sup>***</sup></td></tr>
+<tr><td style="text-align:left"></td><td>(0.01)</td><td>(0.01)</td><td>(0.02)</td><td>(0.03)</td><td>(0.02)</td><td>(0.02)</td><td>(0.02)</td><td>(0.02)</td><td>(0.02)</td></tr>
+<tr><td style="text-align:left"></td><td></td><td></td><td></td><td></td><td></td><td></td><td></td><td></td><td></td></tr>
+<tr><td style="text-align:left">Constant</td><td>0.25<sup>***</sup></td><td>0.40<sup>***</sup></td><td>0.26<sup>***</sup></td><td>0.48<sup>***</sup></td><td>0.31<sup>***</sup></td><td>0.34<sup>***</sup></td><td>0.28<sup>***</sup></td><td>0.19<sup>***</sup></td><td>0.23<sup>***</sup></td></tr>
+<tr><td style="text-align:left"></td><td>(0.04)</td><td>(0.03)</td><td>(0.04)</td><td>(0.06)</td><td>(0.04)</td><td>(0.04)</td><td>(0.06)</td><td>(0.04)</td><td>(0.04)</td></tr>
+<tr><td style="text-align:left"></td><td></td><td></td><td></td><td></td><td></td><td></td><td></td><td></td><td></td></tr>
+<tr><td colspan="10" style="border-bottom: 1px solid black"></td></tr><tr><td style="text-align:left">Observations</td><td>2,901</td><td>7,818</td><td>6,772</td><td>2,901</td><td>7,818</td><td>6,772</td><td>2,901</td><td>7,818</td><td>6,772</td></tr>
+<tr><td style="text-align:left">R<sup>2</sup></td><td>0.09</td><td>0.12</td><td>0.11</td><td>0.07</td><td>0.07</td><td>0.12</td><td>0.18</td><td>0.20</td><td>0.28</td></tr>
+<tr><td style="text-align:left">Adjusted R<sup>2</sup></td><td>0.09</td><td>0.12</td><td>0.10</td><td>0.06</td><td>0.07</td><td>0.12</td><td>0.18</td><td>0.20</td><td>0.27</td></tr>
+<tr><td style="text-align:left">Residual Std. Error</td><td>0.28 (df = 2885)</td><td>0.35 (df = 7800)</td><td>0.40 (df = 6755)</td><td>0.47 (df = 2885)</td><td>0.45 (df = 7800)</td><td>0.44 (df = 6755)</td><td>0.44 (df = 2885)</td><td>0.43 (df = 7800)</td><td>0.40 (df = 6755)</td></tr>
+<tr><td style="text-align:left">F Statistic</td><td>20.02<sup>***</sup> (df = 15; 2885)</td><td>60.89<sup>***</sup> (df = 17; 7800)</td><td>50.51<sup>***</sup> (df = 16; 6755)</td><td>13.38<sup>***</sup> (df = 15; 2885)</td><td>34.22<sup>***</sup> (df = 17; 7800)</td><td>58.26<sup>***</sup> (df = 16; 6755)</td><td>43.29<sup>***</sup> (df = 15; 2885)</td><td>115.40<sup>***</sup> (df = 17; 7800)</td><td>160.68<sup>***</sup> (df = 16; 6755)</td></tr>
+<tr><td colspan="10" style="border-bottom: 1px solid black"></td></tr><tr><td style="text-align:left"><em>Note:</em></td><td colspan="9" style="text-align:right"><sup>*</sup>p<0.1; <sup>**</sup>p<0.05; <sup>***</sup>p<0.01</td></tr>
+</table>
